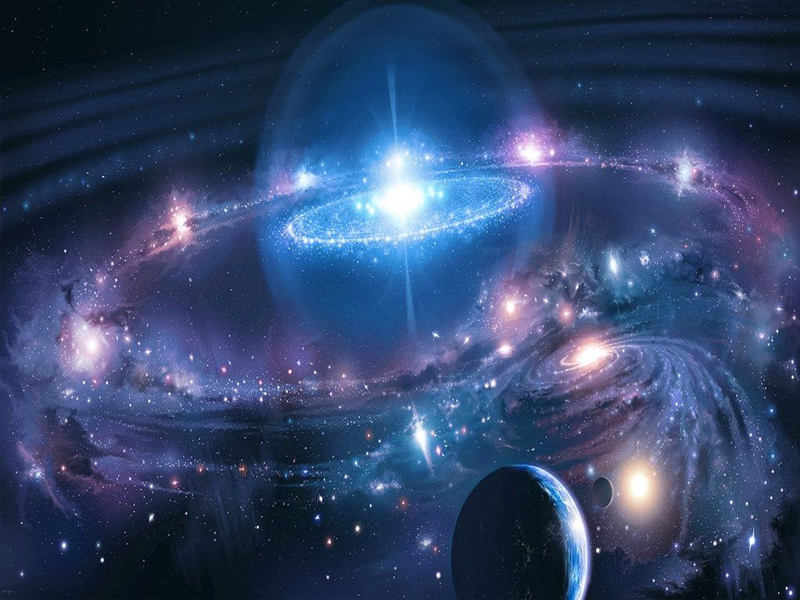
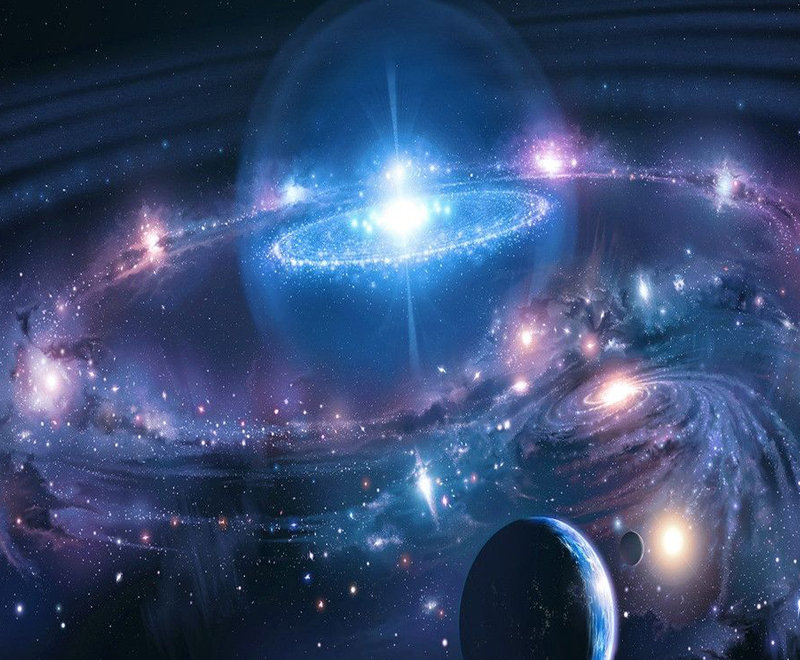
item asset & change map size

diff --git a/world.py b/world.py
@@ -118,7 +118,7 @@ class World:
     def animate(self, delta):
         if self.state == 1: #gen star
             self.random = randint(0,len(self.blank_cell)-1)
-            self.star[math.floor(self.blank_cell[self.random]/self.n)][self.blank_cell[self.random]%self.n] = Star((4/self.n)*(75+150*(self.blank_cell[self.random]%self.n)),(4/self.n)*(525-150*math.floor(self.blank_cell[self.random]/self.n)))
+            self.star[math.floor(self.blank_cell[self.random]/self.n)][self.blank_cell[self.random]%self.n] = Star((4/self.n)*(105+150*(self.blank_cell[self.random]%self.n)),(4/self.n)*(555-150*math.floor(self.blank_cell[self.random]/self.n)))
             self.check_blank_cell()
             if self.is_end():
                 self.state = 0
@@ -240,7 +240,7 @@ class World:
                     self.star[i][j] = 0
                     del self.for_del
         for i in range(len(self.all_star)):
-            self.star[(int)((525 - self.all_star[i].y)/150)][(int)((self.all_star[i].x - 75)/150)] = self.all_star[i]
+            self.star[(int)((555 - self.all_star[i].y)/150)][(int)((self.all_star[i].x - 105)/150)] = self.all_star[i]
         self.check_blank_cell()
         self.state = 1
 
@@ -273,7 +273,7 @@ class Star:
         self.v = (self.target - self.y)/5
 
     def set_target_x(self, cell):
-        self.target = 75+150*cell
+        self.target = 105+150*cell
 
     def set_target_y(self, cell):
-        self.target = 525-150*cell
+        self.target = 555-150*cell

diff --git a/worldrenderer.py b/worldrenderer.py
@@ -30,10 +30,14 @@ class WorldRenderer:
 
         for i in range(4):
             self.background.append(arcade.Sprite('asset/b'+(str)(i+1)+'.png'))
-            self.background[i].set_position(400, 300)
+            self.background[i].set_position(400, 330)
 
         self.star_texture = {}
         for i in range(17):
             self.star_texture[2**(i+1)] = arcade.load_texture('asset/s'+(str)(i+1)+'.png')
         #for i in range(12,17):    
         #    self.star_texture[2**(i+1)] = arcade.load_texture('asset/s12.png')
+
+        self.item_texture = {}
+        for i in range(7):
+            self.item_texture[i] = arcade.load_texture('asset/h'+(str)(i)+'.png')

diff --git a/2048.py b/2048.py
@@ -3,7 +3,7 @@ from world import World
 from worldrenderer import WorldRenderer
  
 SCREEN_WIDTH = 800
-SCREEN_HEIGHT = 600
+SCREEN_HEIGHT = 660
 
 class GameWindow(arcade.Window):
     def __init__(self, width, height):
